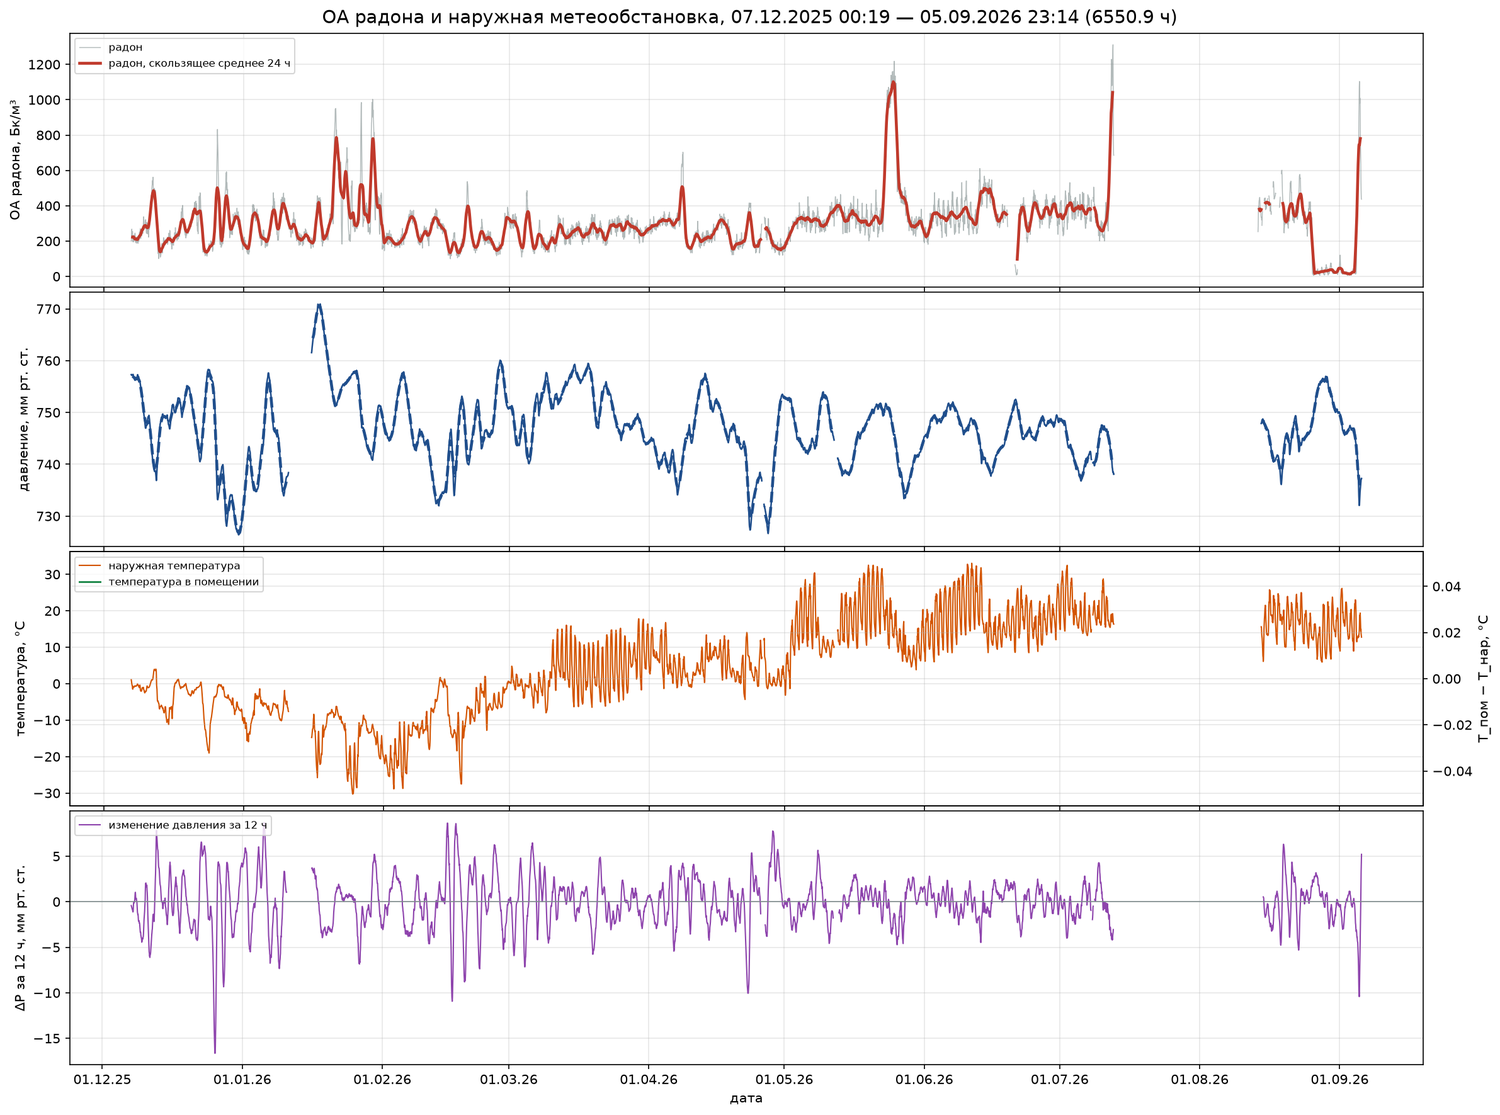
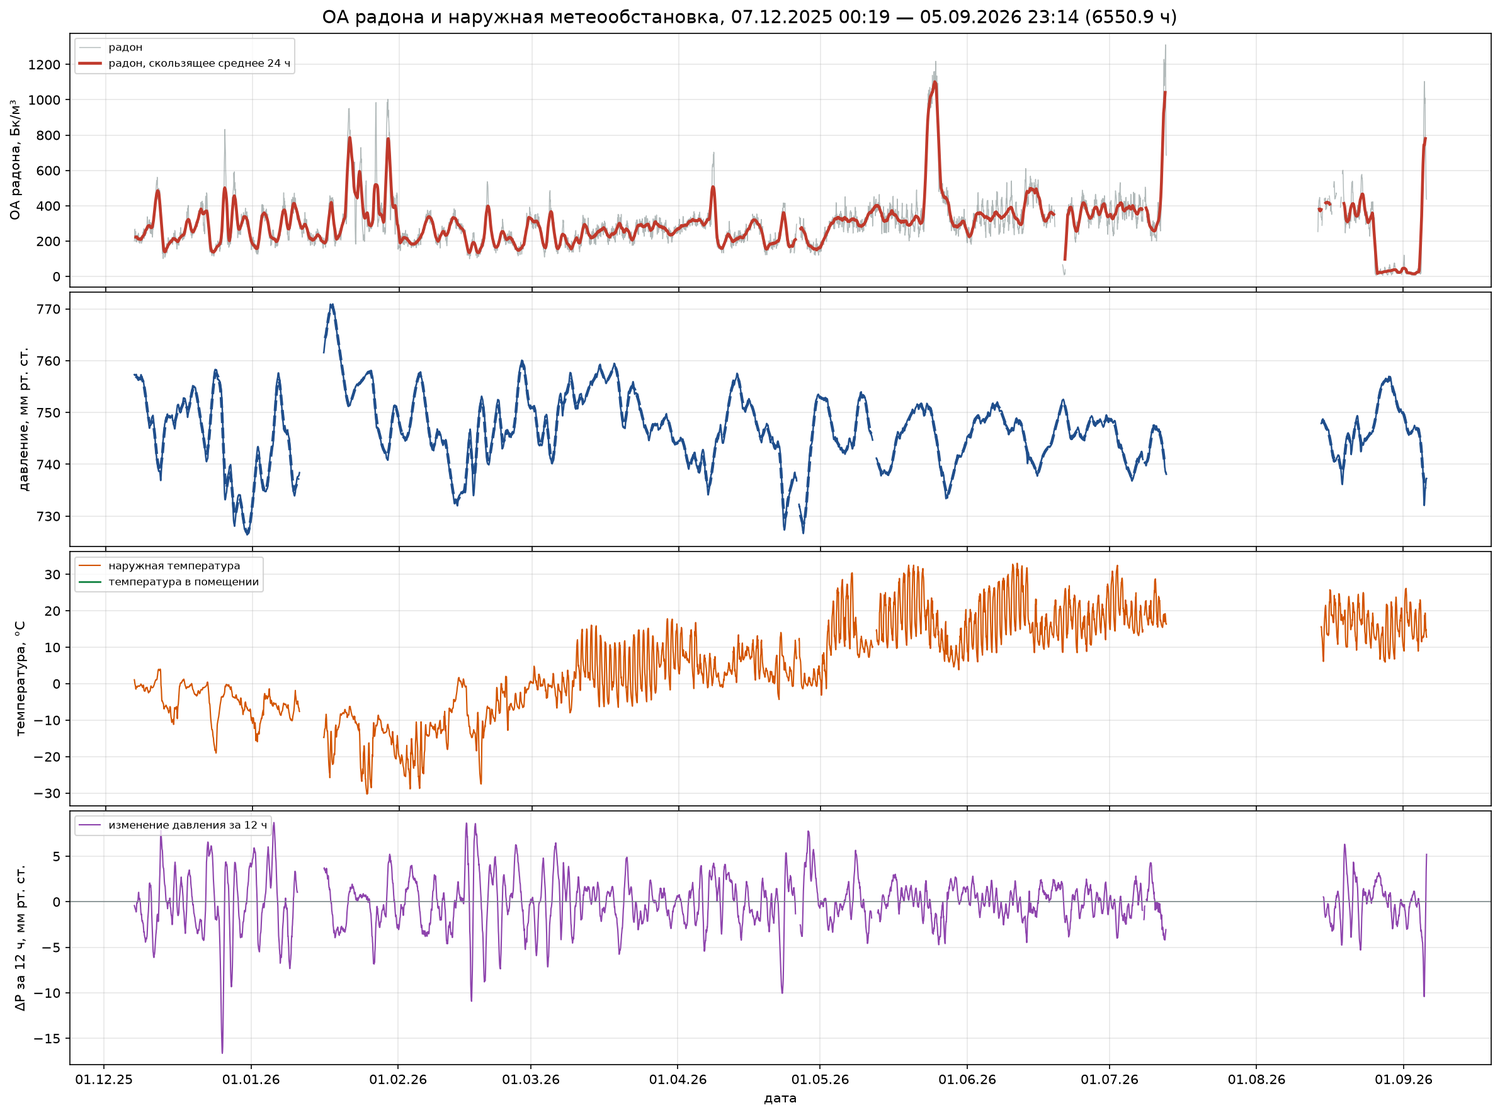
radon-meteo-scales: правки по не-блокерам аудита
- раздел 2: четыре числа приведены к данным (минимум 06.12 = 1,4 C, RH 84-93 %,
  диапазон 23,0-25,4 C, размах 1,8 C, аномалия давления 23.11 01:00 местного);
- рисунки: убраны пустая правая ось и легенда без данных, порог по N_eff
  не рисуется при N_eff < 30 (рис. 4), заголовки в новой терминологии;
- подпись рис. 4 приведена в соответствие с рисунком;
- добавлена мобильная вёрстка (@media 760px), на узкой колонке выключка влево;
- [5]: граница почва/порода вместо грунт-атмосфера;
- перестановочные p для тенденции давления приведены к каноническому порядку
  аргументов теста (0,053/0,019/0,007 на периоде А).

diff --git a/radon-meteo-scales/index.html b/radon-meteo-scales/index.html
@@ -71,6 +71,18 @@
   tr.sig td{background:var(--sig-bg)}
   tr.sig td.n{color:var(--sig-ink); font-weight:600}
 
+    @media (max-width:760px){
+    .wrap{padding:32px 14px 48px}
+    body{font-size:16px}
+    h1{font-size:22px}
+    h2{font-size:18px}
+    p,li{text-align:left; hyphens:auto}   /* на узкой колонке выключка по формату рвёт строки */
+    table{font-size:13.5px}
+    th,td{padding:5px 7px}
+    .tw{margin:16px -14px; padding:0 14px}  /* таблица прокручивается во всю ширину экрана */
+    .abstract,.note{padding:14px 16px}
+  }
+
   ul,ol{padding-left:1.3em}
   li{margin:5px 0}
   code{font:14.5px/1.5 ui-monospace,SFMono-Regular,Consolas,monospace; background:var(--note-bg); padding:1px 5px; border-radius:3px}
@@ -195,13 +207,8 @@
 <div class="note">
 <h3>Две особенности исходных записей, потребовавшие вмешательства</h3>
 <p><b>Первая.</b> В длинной метеозаписи столбец наружной температуры до 06.12.2025 содержит
-показания датчика, находившегося не на улице: с 23.11 по 05.12.2025 значения лежат в интервале
-23,0–25,3 °C при относительной влажности 24–31 %, а суточный размах не превышает 3 °C у всех
-суток этого отрезка (для сравнения: с марта 2026 года таких суток нет вовсе). Переход к наружным
-условиям происходит 06.12.2025, когда суточный минимум падает с 24,4 до 0,8 °C, а на следующие
-сутки составляет −1,5 °C при влажности 85 %. Все расчёты по длинным периодам начинаются
-с 07.12.2025. В том же ряду обнаружено единичное значение давления 656,52 мм рт. ст.
-(22.11.2025), лежащее вне физически правдоподобного интервала для равнинной местности.</p>
+показания датчика, находившегося не на улице: с 23.11 по 05.12.2025 значения лежат в интервале 23,0–25,4 °C при относительной влажности 24–32 %, а наибольший суточный размах за весь отрезок составляет 1,8 °C (для сравнения: с марта 2026 года суток с таким размахом нет вовсе). Переход к наружным условиям происходит 06.12.2025, когда суточный минимум падает с 24,4 до 1,4 °C, а на следующие сутки составляет −1,5 °C при относительной влажности 84–93 %. Все расчёты по длинным периодам начинаются
+с 07.12.2025. В том же ряду обнаружено единичное значение давления 656,52 мм рт. ст. (23.11.2025, 01:00 местного времени; в исходном файле метка соответствует 22.11.2025, 22:00 UTC), лежащее вне физически правдоподобного интервала для равнинной местности.</p>
 <p><b>Вторая.</b> В длинной записи радона после 08.07.2026 присутствуют интервалы, где прибор,
 судя по характеру данных, находился вне контролируемого помещения: ряд разорван промежутками
 до 32 суток, ОА опускается до 5–8 Бк/м³ при среднем уровне около 300 Бк/м³. Период Б′ обрезан по 08.07.2026 (последний отсчёт — 07.07.2026) и не содержит этих участков; совпадение результатов по периодам Б и Б′
@@ -407,7 +414,7 @@
 </table>
 </div>
 
-<p>Приведённые в таблице 7 значения <i>p</i> получены поправкой на эффективный объём выборки. Пересчёт тем же перестановочным тестом, что применялся в таблицах 3 и 4, даёт для интервалов 3, 12 и 24 часа: 0,052, 0,018 и 0,006 (период А); 0,004, 0,002 и 0,0005 (период Б); 0,0045, 0,0025 и 0,0005 (период Б′). Выводы о значимости при этом сохраняются, за исключением трёхчасового интервала на периоде А, который остаётся незначимым при обоих способах оценки.</p>
+<p>Приведённые в таблице 7 значения <i>p</i> получены поправкой на эффективный объём выборки. Пересчёт тем же перестановочным тестом, что применялся в таблицах 3 и 4, даёт для интервалов 3, 12 и 24 часа: 0,053, 0,019 и 0,007 (период А); 0,004, 0,0025 и 0,0005 (период Б); 0,0045, 0,0025 и 0,0005 (период Б′). Выводы о значимости сохраняются, за исключением трёхчасового интервала на периоде А, который остаётся незначимым при обоих способах оценки.</p>
 
 <p>Связь усиливается с расширением интервала, по которому вычисляется изменение давления. Это
 указывает на то, что отклик определяется не мгновенным значением давления, а его ходом за
@@ -453,7 +460,7 @@
 
 <figure>
   <img src="figures/fig4.png" alt="Четыре аналитические панели за девятимесячный период">
-  <figcaption><b>Рис. 4.</b> Период Б, аналитические панели. Обозначения — см. рис. 2. На панели взаимной корреляционной функции низкочастотного диапазона нанесён пунктирный порог ±0,5, рассчитанный по эффективному объёму выборки; этой оценкой пользоваться не следует — для сглаженных рядов она вырождается, и значимость определялась перестановочным тестом (раздел 3). В легенде указана разность температур, данных по которой в этом периоде нет.</figcaption>
+  <figcaption><b>Рис. 4.</b> Период Б, аналитические панели. Обозначения — см. рис. 2. На панели взаимной корреляционной функции низкочастотного диапазона порог значимости не нанесён: оценка по эффективному объёму выборки при N<sub>эфф</sub> = 15 недостоверна, и значимость определялась перестановочным тестом (раздел 3), о чём сказано на самой панели.</figcaption>
 </figure>
 
 <h2><span class="num">5</span>Сезонная составляющая</h2>
@@ -629,9 +636,7 @@
 диффузионного. Там же показано, что фазовое запаздывание и ослабление амплитуды тем больше,
 чем ниже проницаемость и чем дальше рассматриваемая точка от места накачки.</p>
 
-<p>Отдельный результат касается приповерхностного слоя. В аналитическом решении [5] отклик
-оказывается сосредоточен вблизи границы раздела грунт—атмосфера: наибольшие амплитуды
-достигаются в первых сантиметрах ниже границы и экспоненциально затухают вглубь, тогда как
+<p>Отдельный результат касается приповерхностного слоя. В аналитическом решении [5] отклик оказывается сосредоточен вблизи границы раздела между почвенным слоем и подстилающей породой: наибольшие амплитуды достигаются в первых сантиметрах ниже этой границы и экспоненциально затухают вглубь, тогда как
 в однородном полупространстве на той же глубине они пренебрежимо малы. Указывается также, что удельный расход и поверхностный поток радона отстают от давления на доли периода, отличные от половины периода, характерной для однородной среды. Полный текст этой работы не был доступен, поэтому конкретные значения фазового сдвига здесь не приводятся.</p>
 
 <p>В отечественной литературе тот же механизм описан как «накачивающий» эффект, возникающий
